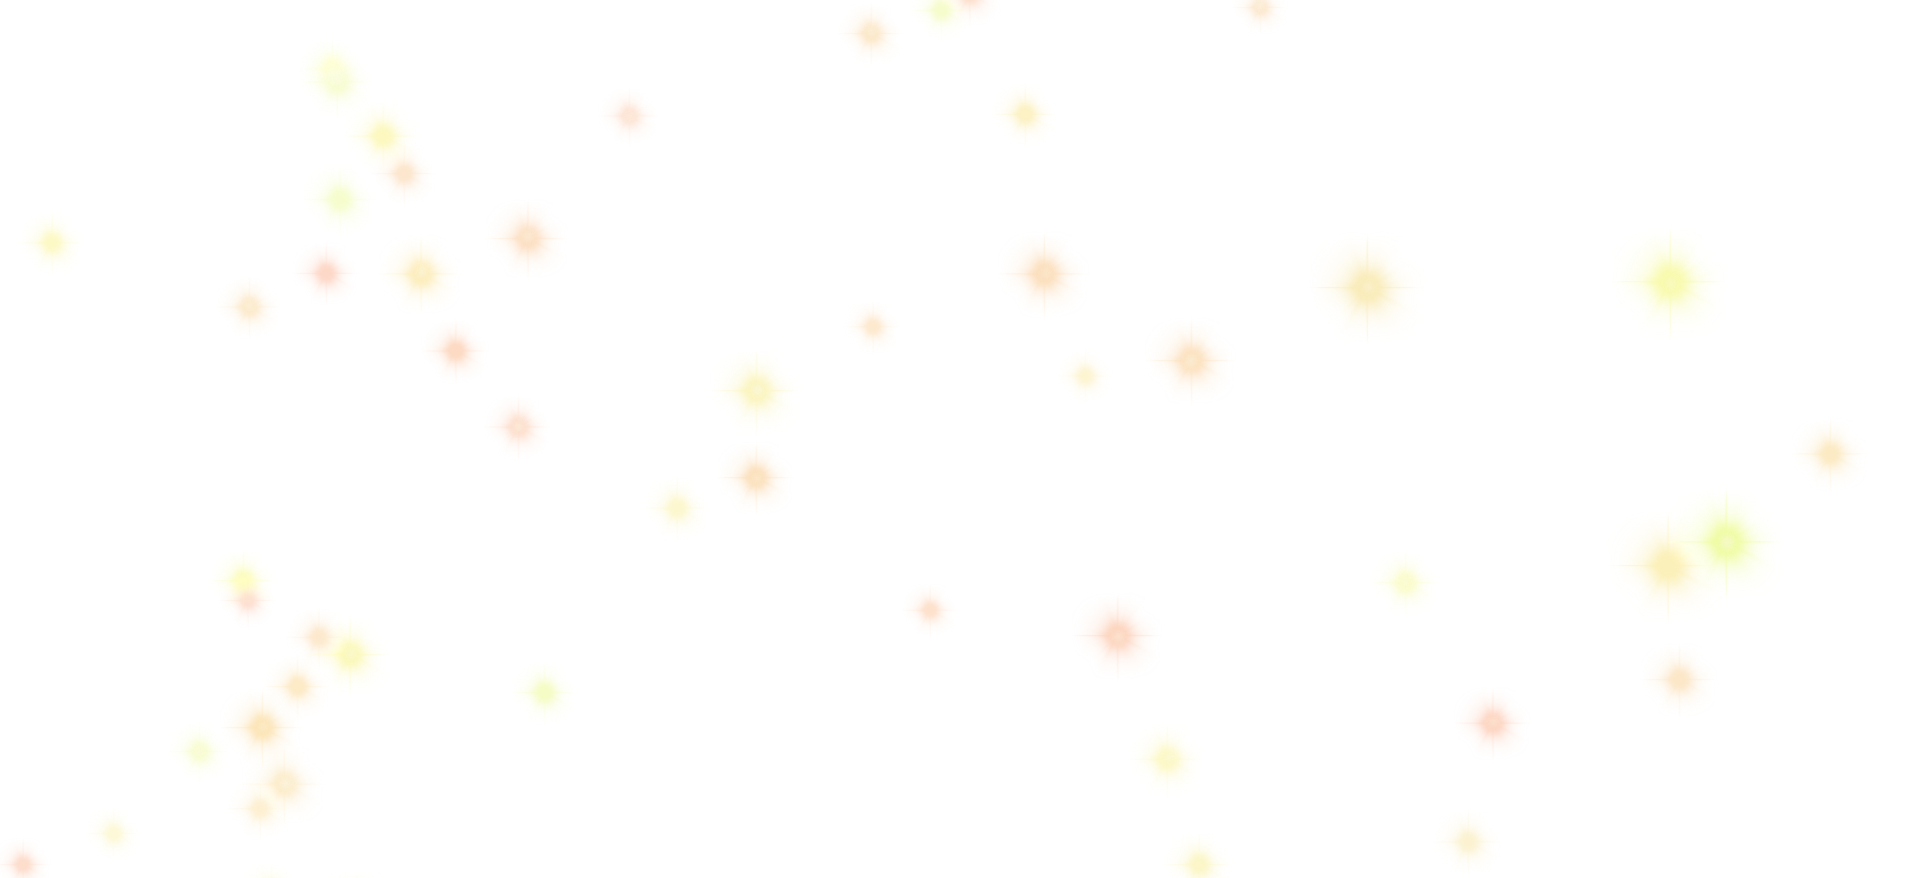
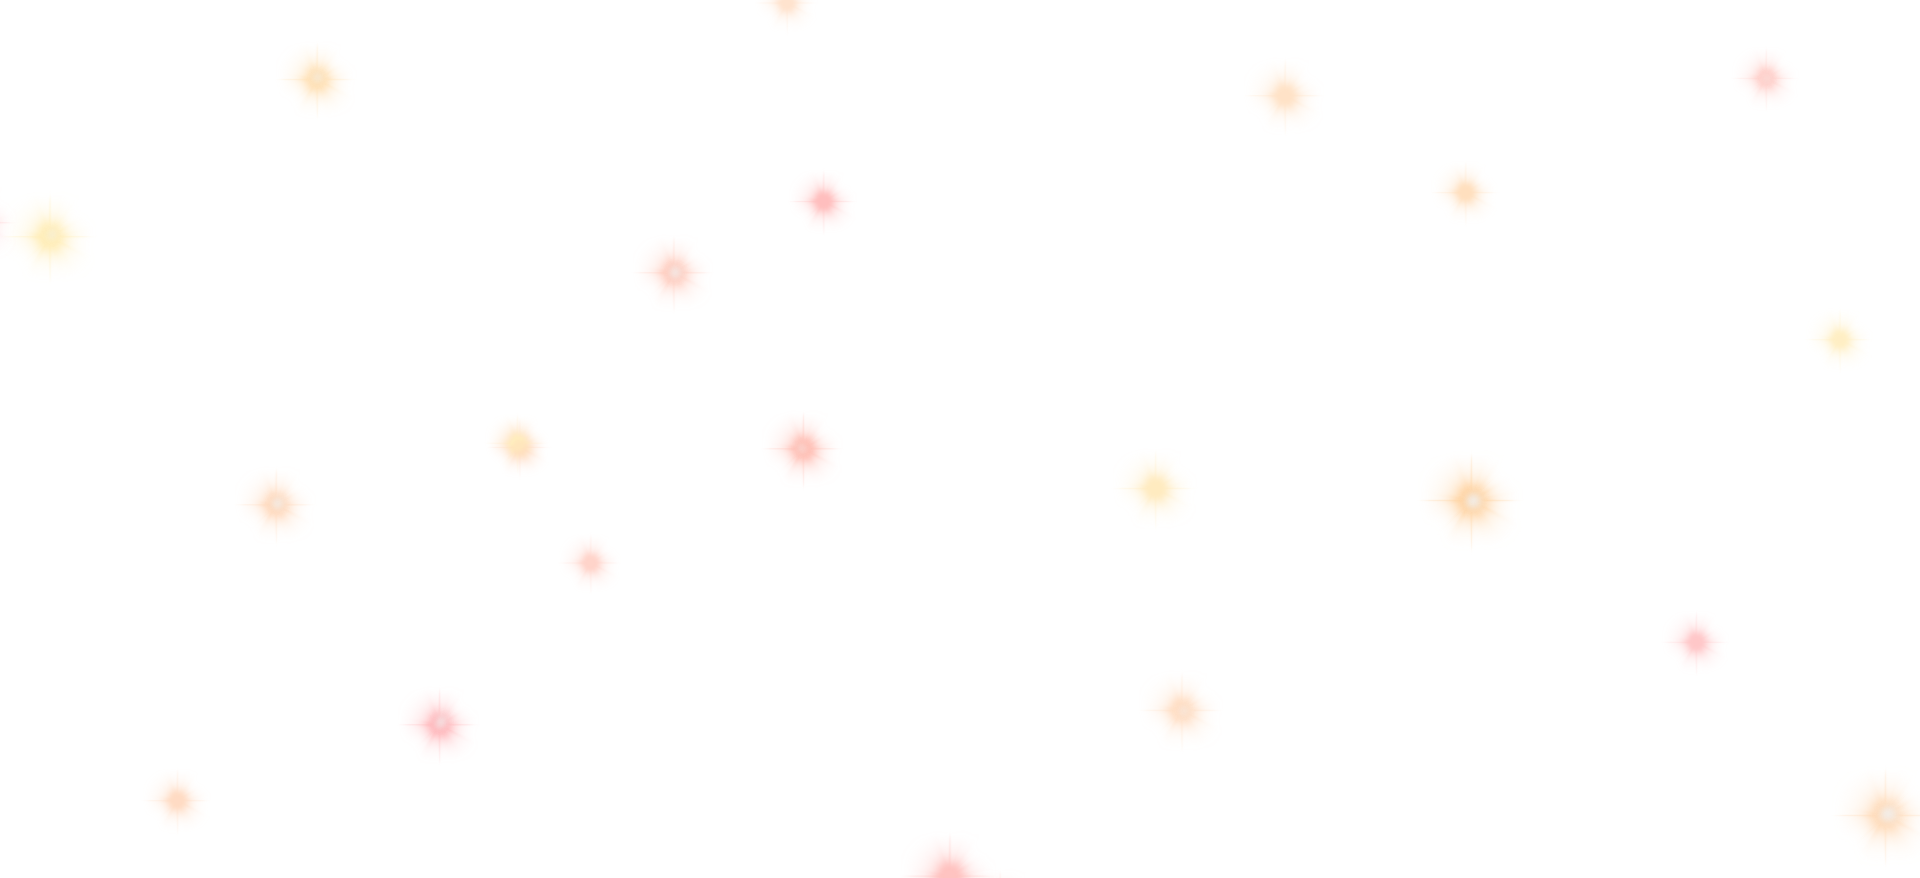
modify  hoveview.vue  首頁rwd

diff --git a/src/views/HomeView.vue b/src/views/HomeView.vue
@@ -1,5 +1,5 @@
 <template>
-    <!-- <Header /> -->
+    <Header />
     <div class="container">
         <div id="scene">
             <div class="layer" data-depth="0.5" data-friction-x="1">
@@ -10,6 +10,9 @@
             </div>
             <div class="layer" data-depth="0.1">
                 <img src="@/assets/images/index/treeblur.png" alt="" />
+            </div>
+            <div class="layer" data-depth="1.2" data-friction-x="1">
+                <img src="@/assets/images/index/star.png" />
             </div>
             <div class="layer" data-depth="0.7" data-invert-x="false">
                 <img src="@/assets/images/index/fireline2.png" />
@@ -23,80 +26,15 @@
             <div class="layer" data-depth="2">
                 <img src="@/assets/images/index/fireline.png" />
             </div>
-            <div class="layer" data-depth="0.05">
+            <h1 class="layer" data-depth="0.05">
                 <img src="@/assets/images/index/logo.svg" />
-            </div>
+            </h1>
         </div>
     </div>
-    <div>
-        <p>
-            Lorem ipsum dolor sit amet consectetur adipisicing elit.
-            Necessitatibus voluptate quod ducimus iste voluptatem dolorem
-            asperiores similique! Adipisci reprehenderit minus modi corrupti
-            voluptatum impedit placeat, rerum, cum enim totam voluptas! Lorem
-            ipsum dolor sit, amet consectetur adipisicing elit. Dicta eius ipsam
-            voluptate laudantium nostrum fuga facilis fugiat cumque asperiores
-            architecto eligendi veritatis ad cum labore rerum, assumenda
-            aspernatur? Voluptatibus, illo? Lorem ipsum dolor sit amet
-            consectetur adipisicing elit. Necessitatibus voluptate quod ducimus
-            iste voluptatem dolorem asperiores similique! Adipisci reprehenderit
-            minus modi corrupti voluptatum impedit placeat, rerum, cum enim
-            totam voluptas! Lorem ipsum dolor sit, amet consectetur adipisicing
-            elit. Dicta eius ipsam voluptate laudantium nostrum fuga facilis
-            fugiat cumque asperiores architecto eligendi veritatis ad cum labore
-            rerum, assumenda aspernatur? Voluptatibus, illo?Lorem ipsum dolor
-            sit amet consectetur adipisicing elit. Necessitatibus voluptate quod
-            ducimus iste voluptatem dolorem asperiores similique! Adipisci
-            reprehenderit minus modi corrupti voluptatum impedit placeat, rerum,
-            cum enim totam voluptas! Lorem ipsum dolor sit, amet consectetur
-            adipisicing elit. Dicta eius ipsam voluptate laudantium nostrum fuga
-            facilis fugiat cumque asperiores architecto eligendi veritatis ad
-            cum labore rerum, assumenda aspernatur? Voluptatibus, illo?Lorem
-            ipsum dolor sit amet consectetur adipisicing elit. Necessitatibus
-            voluptate quod ducimus iste voluptatem dolorem asperiores similique!
-            Adipisci reprehenderit minus modi corrupti voluptatum impedit
-            placeat, rerum, cum enim totam voluptas! Lorem ipsum dolor sit, amet
-            consectetur adipisicing elit. Dicta eius ipsam voluptate laudantium
-            nostrum fuga facilis fugiat cumque asperiores architecto eligendi
-            veritatis ad cum labore rerum, assumenda aspernatur? Voluptatibus,
-            illo?Lorem ipsum dolor sit amet consectetur adipisicing elit.
-            Necessitatibus voluptate quod ducimus iste voluptatem dolorem
-            asperiores similique! Adipisci reprehenderit minus modi corrupti
-            voluptatum impedit placeat, rerum, cum enim totam voluptas! Lorem
-            ipsum dolor sit, amet consectetur adipisicing elit. Dicta eius ipsam
-            voluptate laudantium nostrum fuga facilis fugiat cumque asperiores
-            architecto eligendi veritatis ad cum labore rerum, assumenda
-            aspernatur? Voluptatibus, illo?Lorem ipsum dolor sit amet
-            consectetur adipisicing elit. Necessitatibus voluptate quod ducimus
-            iste voluptatem dolorem asperiores similique! Adipisci reprehenderit
-            minus modi corrupti voluptatum impedit placeat, rerum, cum enim
-            totam voluptas! Lorem ipsum dolor sit, amet consectetur adipisicing
-            elit. Dicta eius ipsam voluptate laudantium nostrum fuga facilis
-            fugiat cumque asperiores architecto eligendi veritatis ad cum labore
-            rerum, assumenda aspernatur? Voluptatibus, illo?Lorem ipsum dolor
-            sit amet consectetur adipisicing elit. Necessitatibus voluptate quod
-            ducimus iste voluptatem dolorem asperiores similique! Adipisci
-            reprehenderit minus modi corrupti voluptatum impedit placeat, rerum,
-            cum enim totam voluptas! Lorem ipsum dolor sit, amet consectetur
-            adipisicing elit. Dicta eius ipsam voluptate laudantium nostrum fuga
-            facilis fugiat cumque asperiores architecto eligendi veritatis ad
-            cum labore rerum, assumenda aspernatur? Voluptatibus, illo?Lorem
-            ipsum dolor sit amet consectetur adipisicing elit. Necessitatibus
-            voluptate quod ducimus iste voluptatem dolorem asperiores similique!
-            Adipisci reprehenderit minus modi corrupti voluptatum impedit
-            placeat, rerum, cum enim totam voluptas! Lorem ipsum dolor sit, amet
-            consectetur adipisicing elit. Dicta eius ipsam voluptate laudantium
-            nostrum fuga facilis fugiat cumque asperiores architecto eligendi
-            veritatis ad cum labore rerum, assumenda aspernatur? Voluptatibus,
-            illo?
-        </p>
-    </div>
+    <div></div>
 </template>
 
 <script>
-// @ is an alias to /src
-/* import HelloWorld from "@/components/HelloWorld.vue"; */
-
 import Header from "@/components/header.vue";
 import Parallax from "../../node_modules/parallax-js/src/parallax";
 export default {
@@ -132,44 +70,116 @@ export default {
 
     #scene {
         height: 100vh;
+        user-select: none;
         .layer {
             position: absolute;
             width: 100%;
-        }
-        .layer:first-child {
-            margin-top: -50px;
+            @include d() {
+            }
+            @include m() {
+            }
         }
         .layer:nth-child(2) {
             padding-top: 32%;
+            @include d() {
+                padding-top: 85%;
+            }
+            @include m() {
+                padding-top: 55vh;
+            }
             img {
                 width: fit-content;
             }
         }
         .layer:nth-of-type(3) {
             margin-left: -300px;
+            @include d() {
+                height: 100vh;
+                img {
+                    height: inherit;
+                }
+            }
+            @include m() {
+            }
         }
         .layer:nth-of-type(4) {
+            margin-left: 200px;
+            margin-top: -100px;
+            @include d() {
+                height: 100vh;
+                img {
+                    height: inherit;
+                }
+            }
+            @include m() {
+            }
+        }
+        .layer:nth-of-type(5) {
             margin-top: 35%;
             margin-left: -200px;
-        }
-        .layer:nth-child(5) {
-            margin-top: 32%;
-            margin-left: 20%;
-            width: 300px;
-            img {
-                width: inherit;
+            @include d() {
+                margin-top: 100%;
+            }
+            @include m() {
+                margin-top: 65vh;
             }
         }
         .layer:nth-child(6) {
-            margin-left: -230px;
+            margin-top: 32%;
+            margin-left: 20%;
+            width: 300px;
+            @include d() {
+                margin-top: 50vh;
+                margin-left: 30%;
+                width: 60vw;
+            }
+            @include m() {
+                margin-top: 60vh;
+                width: 50vw;
+            }
+            img {
+                width: inherit;
+                filter: drop-shadow(10px 10px 10px rgb(0, 0, 0));
+            }
         }
         .layer:nth-child(7) {
-            margin-top: 43%;
+            margin-left: -230px;
+            @include d() {
+                height: 100vh;
+                img {
+                    height: inherit;
+                    margin-left: -300px;
+                }
+            }
+            @include m() {
+                margin-left: -150px;
+            }
         }
         .layer:nth-child(8) {
+            margin-top: 43%;
+            @include d() {
+                margin-top: 110%;
+            }
+            @include m() {
+                margin-top: 75vh;
+            }
+        }
+        .layer:nth-child(9) {
             margin-top: 15%;
             margin-left: 20%;
             filter: drop-shadow(5px 5px 1px rgba(7, 97, 125, 1));
+            @include d() {
+                margin-top: 20%;
+                margin-left: 10%;
+                text-align: left;
+            }
+            @include m() {
+                margin-top: 60%;
+                width: 250px;
+                img {
+                    width: inherit;
+                }
+            }
         }
     }
 }

diff --git a/src/assets/sass/base/_font.scss b/src/assets/sass/base/_font.scss
@@ -70,13 +70,15 @@ html {
         font-size: $h3;
         @include rwd-h3;
     }
-    h4 {
+    h4,
+    button {
         font-size: $h4;
         @include rwd-h4;
     }
     p,
     a {
         font-size: $p;
+        line-height: calc($p + 10px);
         @include rwd-p;
     }
     a {
